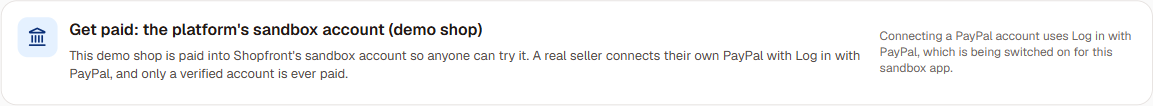
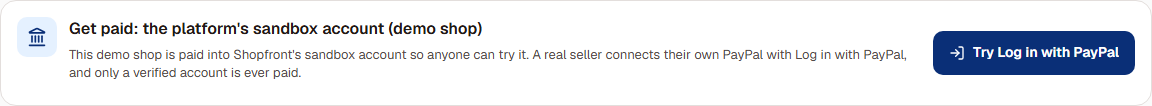
docs: Log in with PayPal live (connect-checks 7/7), README updated, D-093 closed; OWNER-TODO #5 orphaned sandbox captures, #6 render-deploy caution; lipp-probe script

Changed region(s): [[0.0625, 0.283, 1.0, 0.7075], [0.0312, 0.1981, 0.4375, 0.4245], [0.0625, 0.6509, 0.3125, 0.7358]]

diff --git a/README.md b/README.md
@@ -88,6 +88,7 @@ Every row is an acceptance test run **against the deployed app**, with real PayP
 | Hack card | 13/13 real attacks blocked across 6 families; the price matches the DB; 0 checkouts in the DB | [hack](docs/screenshots/hack/), D-091 |
 | Telegram | Judge mode end to end: welcome, menus from the DB, a simulated buyer paid in PayPal → order ping → refund by policy or tap, photo → Publish tap, label → Add tracking tap, guardrails | [telegram](docs/screenshots/telegram/), D-092 |
 | Phase 9 | Each seller paid **directly into their own PayPal** (`payee`): a real capture paid seller 2; a shop with no verified PayPal is refused before any order; seller-side refunds closed by the verified webhook | [AT-9](docs/screenshots/phase-9/AT-9.md) |
+| Log in with PayPal | A real sign-in as seller 2 verifies Fern & Loom (payer id = the merchant PayPal pays); a replayed sign-in link is refused; an unverified email is refused before any order; the next paid order lands in seller 2's PayPal | [connect](docs/screenshots/connect/), D-092, D-094 |
 | Recovery | A verify outage gets 503 (PayPal retries); unprocessed webhooks are swept; a declined card's next capture gets a new `PayPal-Request-Id`. The decline uses PayPal's documented sandbox negative-testing header (`PayPal-Mock-Response`) on a real capture call | [RECOVERY](docs/screenshots/recovery/RECOVERY.md) |
 | Live, landing, mobile | 24 h counts from the DB, ids behind Details, live rows; the landing's pitch and doors; 13 routes × 3 phone widths with no sideways scroll | [live](docs/screenshots/live/), [landing](docs/screenshots/landing/), [mobile](docs/screenshots/mobile/) |
 
@@ -110,7 +111,7 @@ Every row is an acceptance test run **against the deployed app**, with real PayP
 | **Webhooks v1** | Signature verification, `PAYMENT.CAPTURE.*` (completed, pending, denied, refunded, reversed), `CHECKOUT.ORDER.APPROVED` |
 | **Catalog Products v1** | Listings mirrored into PayPal's catalog; description, category and image updated from the dashboard (PATCH) |
 | **Transaction Search v1** | The `[paypal]` figures (it can lag about 3 hours, so today's figures come from our DB) |
-| **Log in with PayPal** (Identity) | Verifying a seller's PayPal account before it's ever paid (built; switching on, see the limitations below) |
+| **Log in with PayPal** (Identity) | A seller connects their PayPal from the Studio's Get paid card; PayPal shares the account id, email and verification status, and only a verified account is ever paid |
 | **OAuth 2.0** | A server-side token with cache and refresh; the client id is the only PayPal value in the browser |
 
 Every POST carries a `PayPal-Request-Id`; every PayPal call's debug id is logged and shown on the timeline.
@@ -138,7 +139,7 @@ Badges say which source answered each AI step: "Live · Groq", "Live · Gemini",
   - Fern & Loom is paid **directly into its own PayPal** through the order's `payee`.
   - A shop without a verified PayPal account is refused before any order is created.
 - **What PayPal gates for apps that aren't approved partners:** partner onboarding (403), platform fees (422) and refunding another seller's payment from our app (403). So refunds for directly-paid sellers are a one-tap handoff to their own PayPal; our verified webhook marks them done. Debug ids are in `docs/DECISIONS.md` (D-075, D-076).
-- **Log in with PayPal** is built (a signed single-use state, a server-side code exchange, payer-id verification), but our sandbox app doesn't accept the Return URL yet. Its button stays hidden until it does, and Fern & Loom is verified by its first payment meanwhile.
+- **Log in with PayPal** is live for sellers on the sandbox. On the demo shop (Juniper Clay) the button only shows that the check works: it confirms the account but never reroutes the demo shop's payments.
 - **AG Grid Enterprise:** the dashboard runs on AG Grid Community, with our own grouping and drill-down rows, until an AG Grid + AG Charts Enterprise key is configured. The guard then switches Enterprise on, and never shows a watermark. AG Studio runs on its trial licence.
 - **Not built (cut for time):** saved-wallet reorders with PayPal Vault, and dispute handling.
 - **Listing photos** are public-domain museum pieces standing in for the sellers' work (credits below).

diff --git a/docs/OWNER-TODO.md b/docs/OWNER-TODO.md
@@ -5,4 +5,6 @@
 | 1 | Put the **AG Grid + AG Charts Enterprise (`BOTH`) trial key** in `.env` and on Render as `NEXT_PUBLIC_AG_GRID_LICENSE_KEY` | Master-detail, grid sparklines, integrated charts (AG Grid "Best Use") | The dashboard ships key-gated: Community fallbacks, never a watermark (D-080) | 2026-10-18 |
 | 2 | **Around Nov 25:** ask AG Grid for a trial extension | A 45-day trial lapses before judging ends | The guard falls back to Community; no watermark | 2026-10-18 |
 | 3 | Shoot **3–4 of your own items** (a mug, a bowl, a textile) | The live photo-to-store and Telegram demos in the video | CC0 museum and stock photos for every seeded listing (credited in the README) | 2026-10-18 |
-| 4 | **Log in with PayPal is still rejected** (re-checked 2026-10-18 12:29 UTC, about an hour after your fix). PayPal answers "invalid client_id or redirect_uri" for the exact Return URL and also for the site root, `/studio` and `localhost`, with every scope. That points to Log in with PayPal not being active **for this client id**. Please check:<ul><li>Developer Dashboard → **Sandbox** (not Live) → the app whose client id starts `BAA5Sk` (the one in Render's `PAYPAL_CLIENT_ID`) → **Log in with PayPal** is ticked;</li><li>Advanced settings → Return URL `https://shopfront-agent.onrender.com/api/seller/paypal/return`;</li><li>the scopes Email and PayPal account ID;</li><li>the page's own **Save** at the bottom.</li></ul>Then set `PAYPAL_LIPP_ENABLED=1` on Render and ask me to run `connect-checks`. | D-084 seller connect | The button stays hidden (`PAYPAL_LIPP_ENABLED=0`) and the card explains it. Fern & Loom is verified (by its first capture) and **sells**: a paid order on 2026-10-18 landed in seller 2's PayPal (C7). Unverified sellers can't sell. | 2026-10-18 |
+| 4 | ~~Log in with PayPal Return URL~~ **Done 2026-10-18.** The owner replaced a placeholder Return URL (`nativexo://paypalpay`); PayPal accepted it about an hour after the save. `PAYPAL_LIPP_ENABLED=1` is on Render; `connect-checks` passes 7/7. | D-084 | — | 2026-10-18 |
+| 5 | Decide on the **two orphaned sandbox captures** from the D-094 bug window: `4PS80372PS203812S` and `93897555YJ175420Y` ($33 each, test orders cancelled in our DB but captured at PayPal). Refund them in the sandbox (I can do it from the app's refund code once you say so) or leave them; they only affect the `[paypal]` Transaction Search totals by $66. | Clean sandbox books | Nothing breaks either way | 2026-10-18 |
+| 6 | Don't run `scripts/render-deploy.mjs` as is: its `PUT /env-vars` replaces all of Render's variables with its own list, which lacks `PAYPAL_LIPP_ENABLED`, the Telegram keys and the sandbox buyer. Pushes deploy by themselves. | Keeps Render's settings | — | 2026-10-18 |

diff --git a/docs/DECISIONS.md b/docs/DECISIONS.md
@@ -1490,6 +1490,11 @@
   - Regression after the capture guard: approval 6/6, shop 4/4, phase4 7/7.
 - **Serves:** J1, J2, G1, D-009, D-073, D-084.
 
+- **Log in with PayPal, closed (2026-10-18 19:04 IST):**
+  - The cause of the rejection: the app's Return URL was a placeholder (`nativexo://paypalpay`), which the owner replaced. PayPal accepted the new one within about an hour.
+  - `PAYPAL_LIPP_ENABLED=1` is set on Render (single-key API update, then a deploy).
+  - `connect-checks` passes 7/7 on Render: C2 real sign-in as seller 2 (userinfo fields `user_id, sub, payer_id, verified_account, email…`); C3 replay refused; C4 an unverified email refused; C5 Fern & Loom verified by Log in with PayPal (payer id `B83JSV9ELHV74` = the merchant PayPal pays); C6 reconnected; C7 a paid order lands in seller 2's PayPal.
+  - D-093's open item is closed. The README limitation line was replaced by "live".
 ---
 
 ## Requirement updates

diff --git a/docs/HANDOFF.md b/docs/HANDOFF.md
@@ -221,3 +221,10 @@
 - Never push during an AT run.
 - Delete files only with `node scripts/safe-rm.mjs`.
 - Admin calls: `node --env-file=.env scripts/admin.mjs '<json>'` (reset, freeze, sync_catalog, set_payout, connect_url, tg_photo).
+
+**Part 7 later (2026-10-18 evening, D-093/D-094):**
+- The final regression is all green (`docs/screenshots/final-regression.log`). Log in with PayPal is live; `connect-checks` passes 7/7.
+- When this machine has no interactive desktop, run the ATs with `AT_HEADLESS=1`.
+- `/api/health` shows `booted_at`.
+- Don't use `scripts/render-deploy.mjs` as is: its env PUT replaces all of Render's variables. For one key, use the single-key `PUT /services/{id}/env-vars/{key}` call.
+- Next: review v2 on the owner's "start review v2" (`docs/review-pack/REVIEW-V2.md`).
